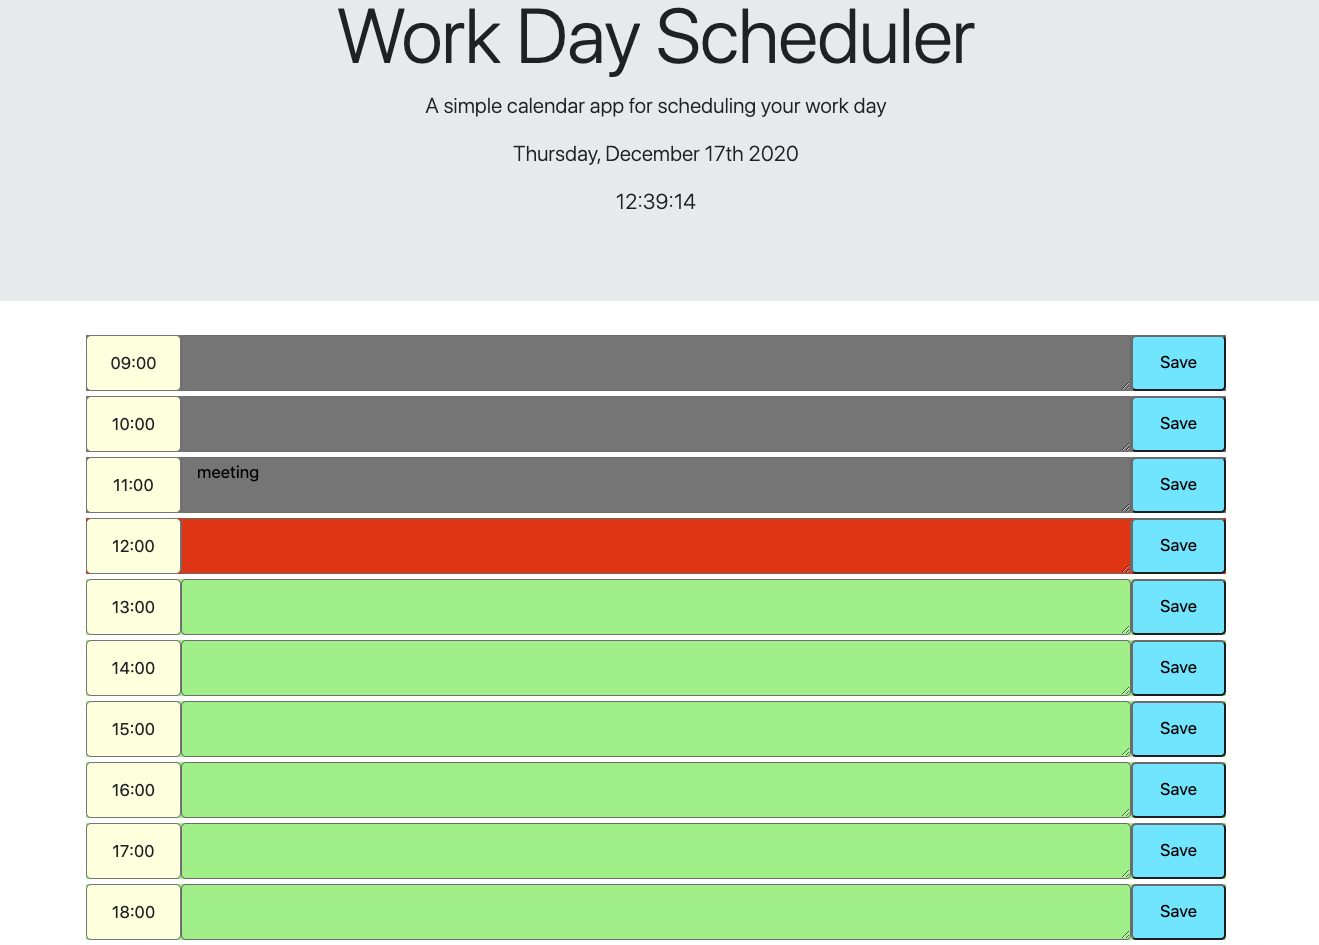
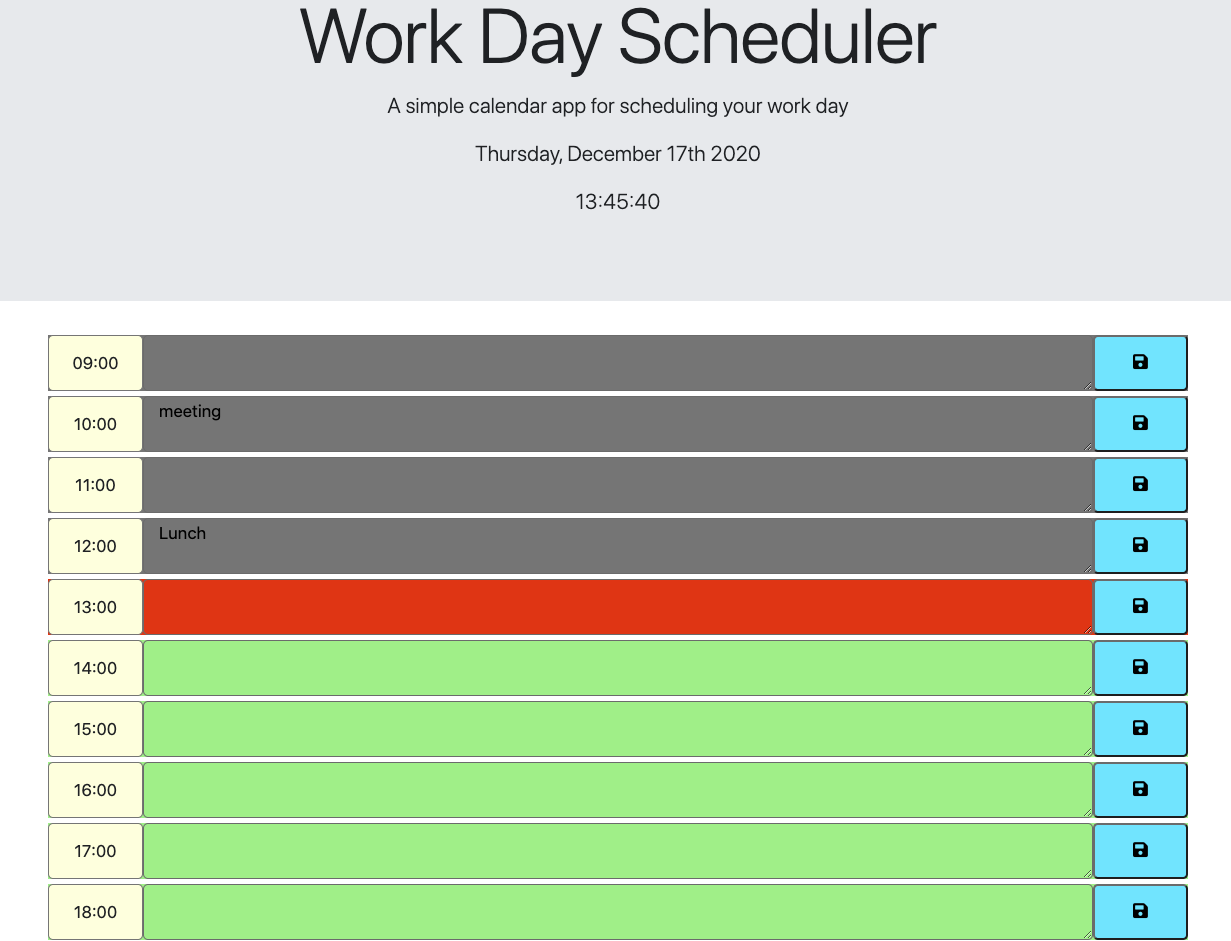
final touches

Changed region(s): [[0.0309, 0.339, 0.9878, 1.0], [0.247, 0.0, 0.7717, 0.1233], [0.3704, 0.1541, 0.6174, 0.2465]]

diff --git a/index.html b/index.html
@@ -36,61 +36,61 @@
         <div class="row time-block" id="9am">
             <div class="col-1 hour">09:00</div>
             <textarea data-hour="9" class="col-10 schedule"></textarea>
-            <button class="col-1 saveBtn">Save</button>
+            <button class="col-1 saveBtn"><i class="fas fa-save"></i></button>
         </div>
 
         <div class="row time-block" id="10am">
             <div class="col-1 hour">10:00</div>
             <textarea data-hour="10" class="col-10 schedule"></textarea>
-            <button class="col-1 saveBtn">Save</button>
+            <button class="col-1 saveBtn"><i class="fas fa-save"></i></button>
         </div>
 
         <div class="row time-block" id="11am">
             <div class="col-1 hour">11:00</div>
             <textarea data-hour="11" class="col-10 schedule"></textarea>
-            <button class="col-1 saveBtn">Save</button>
+            <button class="col-1 saveBtn"><i class="fas fa-save"></i></button>
         </div>
 
         <div class="row time-block" id="12pm">
             <div class="col-1 hour">12:00</div>
             <textarea data-hour="12" class="col-10 schedule"></textarea>
-            <button class="col-1 saveBtn">Save</button>
+            <button class="col-1 saveBtn"><i class="fas fa-save"></i></button>
         </div>
 
         <div class="row time-block" id="13pm">
             <div class="col-1 hour">13:00</div>
             <textarea data-hour="13" class="col-10 schedule"></textarea>
-            <button class="col-1 saveBtn">Save</button>
+            <button class="col-1 saveBtn"><i class="fas fa-save"></i></button>
         </div>
 
         <div class="row time-block" id="14pm">
             <div class="col-1 hour">14:00</div>
             <textarea data-hour="14" class="col-10 schedule"></textarea>
-            <button class="col-1 saveBtn">Save</button>
+            <button class="col-1 saveBtn"><i class="fas fa-save"></i></button>
         </div>
 
         <div class="row time-block" id="15pm">
             <div class="col-1 hour">15:00</div>
             <textarea data-hour="15" class="col-10 schedule"></textarea>
-            <button class="col-1 saveBtn">Save</button>
+            <button class="col-1 saveBtn"><i class="fas fa-save"></i></button>
         </div>
         
         <div class="row time-block" id="16pm">
             <div class="col-1 hour">16:00</div>
             <textarea data-hour="16" class="col-10 schedule"></textarea>
-            <button class="col-1 saveBtn">Save</button>
+            <button class="col-1 saveBtn"><i class="fas fa-save"></i></button>
         </div>
 
         <div class="row time-block" id="17pm">
             <div class="col-1 hour">17:00</div>
             <textarea data-hour="17" class="col-10 schedule"></textarea>
-            <button class="col-1 saveBtn">Save</button>
+            <button class="col-1 saveBtn"><i class="fas fa-save"></i></button>
         </div>
 
         <div class="row time-block" id="18pm">
             <div class="col-1 hour">18:00</div>
             <textarea data-hour="18" class="col-10 schedule"></textarea>
-            <button class="col-1 saveBtn">Save</button>
+            <button class="col-1 saveBtn"><i class="fas fa-save"></i></button>
         </div>
         
     </div>

diff --git a/README.md b/README.md
@@ -6,7 +6,7 @@ The calendar is color coded based on the past, present and future. Gray for the 
 
 .JS file was used for the functonlaity of the calendar such as dislaying the current date and time, saving the user input in the text area with the local storage and creating a function for the past, present and future feature.
 
-I also used [Moment.js](https://momentjs.com/) to show the current date and time.
+I also used [Moment.js](https://momentjs.com/) to show the current date and time and [Font Awesome](https://fontawesome.com/icons/save?style=solid) for the floopy disc icon instead of 'save' word.
 
 ## Usage
 [Work_Day_Schedule](https://criscel.github.io/Work-Day-Scheduler/)
@@ -20,6 +20,7 @@ I also used [Moment.js](https://momentjs.com/) to show the current date and time
 [MDN Javascript](https://developer.mozilla.org/en-US/docs/Web/JavaScript),
 [W3Scools](https://www.w3schools.com/js/default.asp),
 [Moment.js](https://momentjs.com/)
+[Font Awesome](https://fontawesome.com/icons/save?style=solid)
 
 ### Jekyll Themes
 
